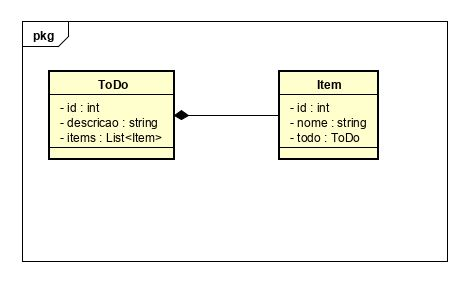
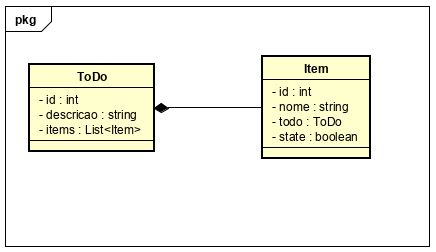
:sparkles: Add property checked in Entity Item

diff --git a/backend/Todo.Domain/Entities/Item.cs b/backend/Todo.Domain/Entities/Item.cs
@@ -3,15 +3,18 @@
     public class Item : Entity
     {
         public Item() { }
-        public Item(int id, string nome, ToDo todo)
+
+        public Item(int todoid, string nome, bool state, ToDo todo)
         {
-            this.id = id;
+            this.todoid = todoid;
             this.nome = nome;
+            this.state = state;
             this.todo = todo;
         }
 
-        public string nome { get; set; }
         public int todoid { get; set; }
+        public string nome { get; set; }
+        public bool state { get; set; }
         public ToDo todo { get; set; }
     }
 }

diff --git a/backend/Todo.Domain/Entities/ToDo.cs b/backend/Todo.Domain/Entities/ToDo.cs
@@ -5,9 +5,8 @@ namespace Todo.Domain.Entities
     public class ToDo : Entity
     {
         public ToDo() { }
-        public ToDo(int id, string descricao, List<Item> items)
+        public ToDo(string descricao, List<Item> items)
         {
-            this.id = id;
             this.descricao = descricao;
             this.items = items;
         }
